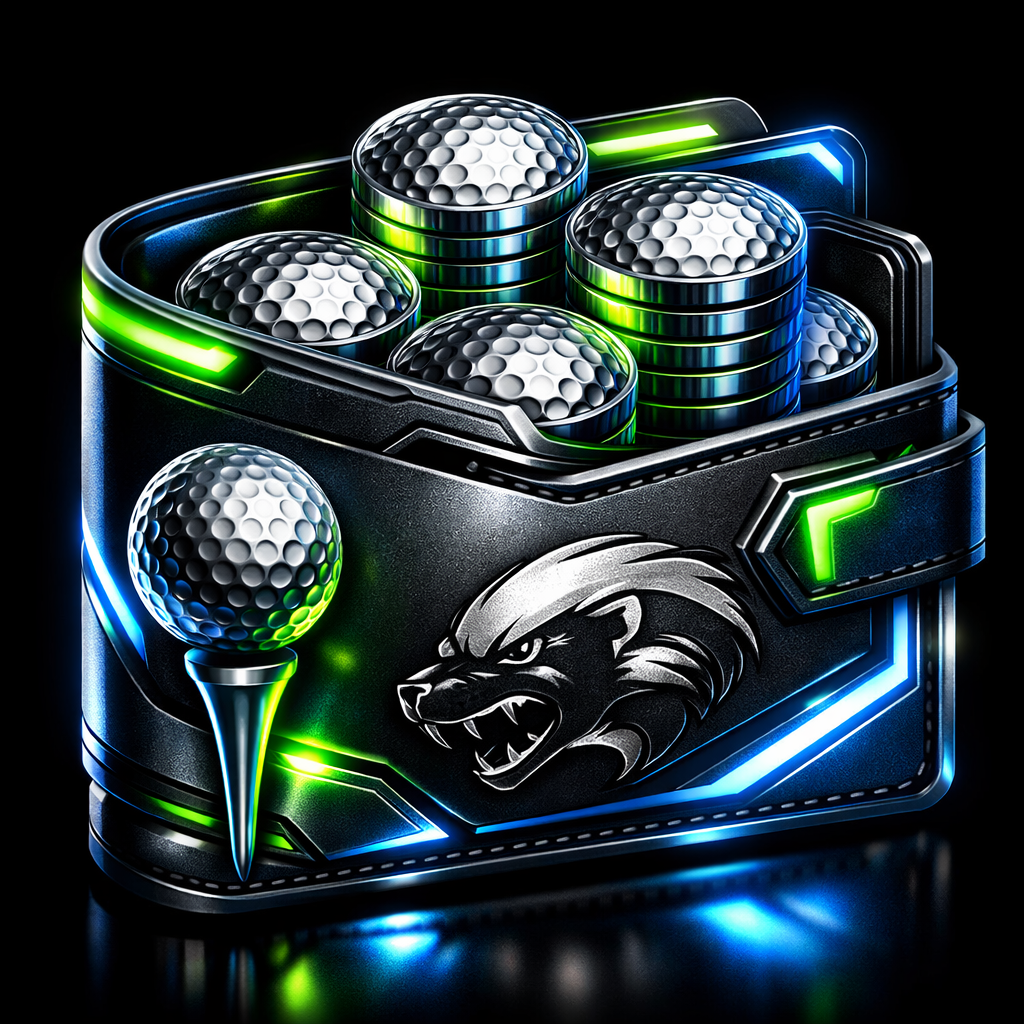
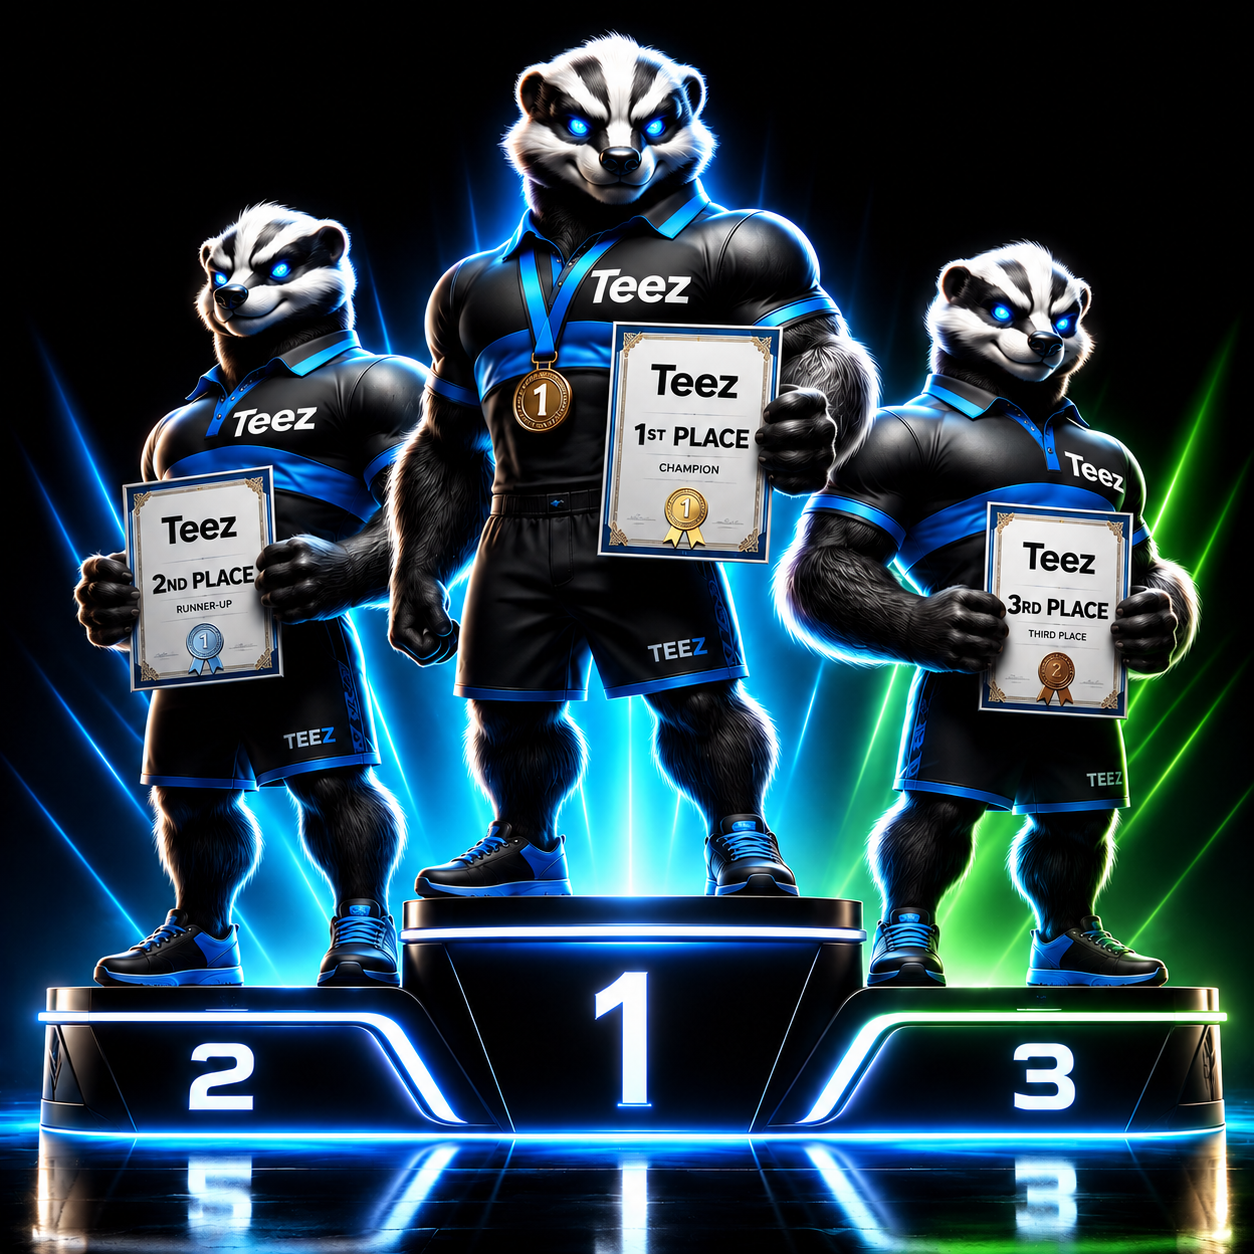
Update redeem page

diff --git a/app/wallet/redeem/page.tsx b/app/wallet/redeem/page.tsx
@@ -12,7 +12,6 @@ const CATEGORIES = [
   "FOOD",
   "GOLF",
   "DIGITAL",
-"CASH",
 ];
 
 const SUPPLIERS_BY_CATEGORY: Record<
@@ -51,9 +50,6 @@ const SUPPLIERS_BY_CATEGORY: Record<
     { name: "Cell C Airtime / Data", url: "https://www.cellc.co.za" },
     { name: "Telkom Airtime / Data", url: "https://www.telkom.co.za" },
     { name: "Electricity", url: "" },
-  ],
-    CASH: [
-    { name: "Cash Redemption", url: "" },
   ],
 };
 
@@ -155,42 +151,12 @@ if (!category || !supplier || !amount) {
     </p>
 
     <p>
-      Prize redemptions, including vouchers, merchandise and cash rewards, may be subject to the Rules of Amateur Status governed by organizations including the R&A, GolfRSA, USPGA and other affiliated governing bodies.
+      Prize redemptions, including vouchers, and merchandise is subject to the Rules of Amateur Golf Status governed by organizations including the R&A, GolfRSA, USPGA as well as local governing bodies.
     </p>
 
     <p>
-      Players are individually responsible for understanding the rules applicable to their playing division, competition format and amateur status before selecting or accepting any redemption option.
+      Players are individually responsible for understanding the rules applicable to their playing division and competition format.
     </p>
-
-    <p>
-      Certain cash prizes, high-value prizes or prize redemptions may affect a player’s amateur status depending on the rules applicable within their governing region and competition category.
-    </p>
-
-  </div>
-
-  {/* ================= CASH WARNING ================= */}
-
-  <div className="border border-cyan-400/30 bg-[#071521]/80 rounded-2xl p-4 shadow-[0_0_25px_rgba(0,255,255,0.18)] backdrop-blur-md">
-
-    <div className="text-lg font-bold text-cyan-300 mb-3">
-      CASH REDEMPTION WARNING
-    </div>
-
-    <div className="text-sm text-cyan-100 leading-relaxed space-y-3">
-
-      <p>
-        Cash prize redemptions may not be permitted within certain amateur divisions, handicap competitions or governing jurisdictions.
-      </p>
-
-      <p>
-        Accepting cash prizes or prize values exceeding permitted limits may result in the forfeiture of amateur golf status under applicable governing body rules.
-      </p>
-
-      <p>
-        Before selecting CASH redemption options, players should ensure they fully understand the rules applicable to their division, competition type and governing body regulations.
-      </p>
-
-    </div>
 
   </div>
 
@@ -257,7 +223,7 @@ if (!category || !supplier || !amount) {
       />
 
       <span>
-        I understand that certain prize redemptions, including cash prizes, may affect my amateur golf status under applicable governing body rules including the R&A, GolfRSA, USPGA and other affiliated organizations.
+        I understand that prizes are managed within the rules and regulations as set by the governing bodies, R&A, GolfRSA, USPGA and affiliated organizations.
       </span>
     </label>
 
@@ -287,7 +253,7 @@ if (!category || !supplier || !amount) {
       />
 
       <span>
-        I confirm that all redemption requests submitted through Teez Golf Challenges are made voluntarily and that all information provided by me is accurate and truthful.
+        I confirm that all prize givings are submitted through Teez Golf Challenges and is voluntarily and that all information provided by me is accurate and truthful.
       </span>
     </label>
 
@@ -297,7 +263,7 @@ if (!category || !supplier || !amount) {
 
 <div className="text-xs text-cyan-200 border border-cyan-400/20 rounded-2xl bg-[#071521]/80 p-4 shadow-[0_0_20px_rgba(0,255,255,0.15)]">
 
-    By proceeding with a redemption request through Teez Golf Challenges, I acknowledge that I have read, understood and accepted the redemption rules, prize conditions and amateur status responsibilities applicable to my participation within the platform.
+    By entering a prize giving event through Teez Golf Challenges, I acknowledge that I have read, understood and accepted the rules, prize conditions and truthfull participation within the platform.
 
   </div>
 